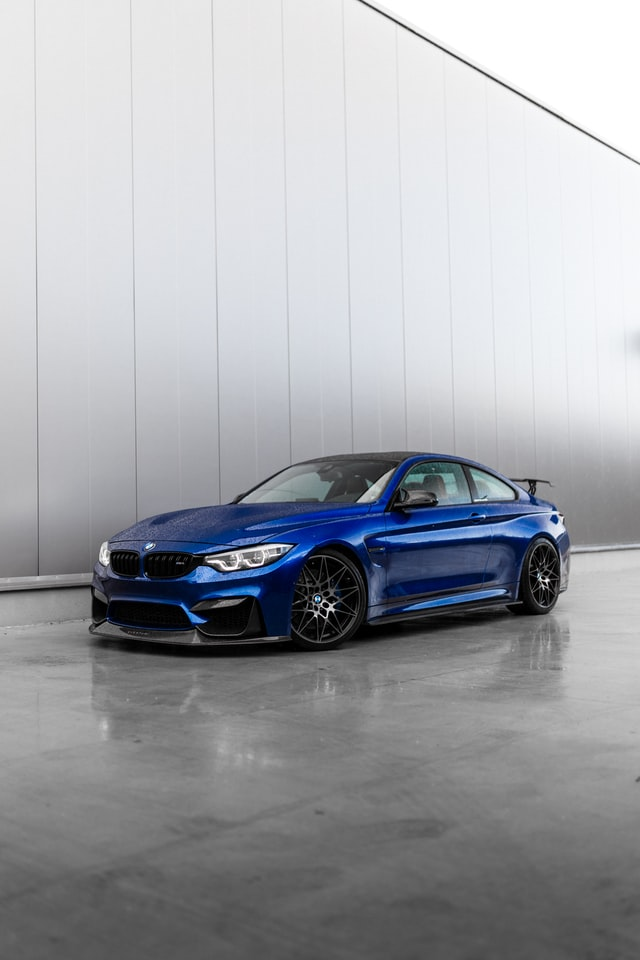
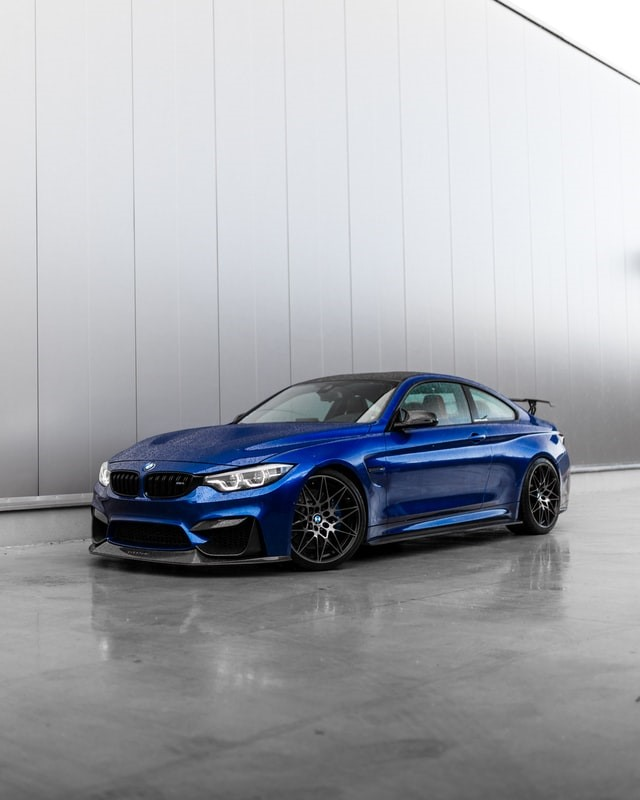
Changed ProfilePostImage styling

diff --git a/src/Styled Components/Profile.js b/src/Styled Components/Profile.js
@@ -69,10 +69,11 @@ const ProfileUnFollowButton = styled(ProfileFollowButton)`
 `
 
 const ProfilePostImage = styled.img`
-    width: 100%;
-    height: 300px;
-    object-fit: fill;
+    height: 100%;
+    width: 100%; 
+    object-fit: contain;
     cursor: pointer;
+    background-color: rgba(0, 0, 0, .7);
 `
 
 
